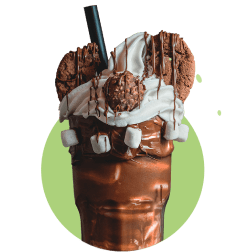
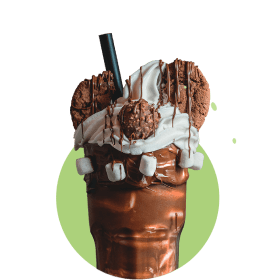
архитектор

diff --git a/src/sass/layout/_products.scss b/src/sass/layout/_products.scss
@@ -120,7 +120,6 @@
     content: url("/images/product-1m-249@1x.png");
     position: absolute;
     bottom: 100%;
-    left: 5%;
     transform: translateY(50%);
     @media (min-device-pixel-ratio: 2), (min-resolution: 192dpi), (min-resolution: 2dppx) {
         .ice-cream::before {
@@ -129,7 +128,6 @@
     }
     @media screen and (min-width: 768px) {
         content: url("/images/product-1t-220@1x.png");
-        left: 0;
         @media (min-device-pixel-ratio: 2), (min-resolution: 192dpi), (min-resolution: 2dppx) {
             .ice-cream::before {
                 content: url("/images/product-1t-440@2x.png");
@@ -149,7 +147,6 @@
     content: url("/images/product-2m-249@1x.png");
     position:absolute;
     bottom: 100%;
-    left: 5%;
     transform: translateY(50%);
     @media (min-device-pixel-ratio: 2), (min-resolution: 192dpi), (min-resolution: 2dppx) {
         .ice-coffee::before {
@@ -158,7 +155,6 @@
     }
     @media screen and (min-width: 768px) {
         content: url("/images/product-2t-220@1x.png");
-        left: 0;
         @media (min-device-pixel-ratio: 2), (min-resolution: 192dpi), (min-resolution: 2dppx) {
             .ice-coffee::before {
                 content: url("/images/product-2t-440@2x.png");
@@ -178,7 +174,6 @@
     content: url("/images/product-3m-249@1x.png");
     position: absolute;
     bottom: 100%;
-    left: 5%;
     transform: translateY(50%);
     @media (min-device-pixel-ratio: 2), (min-resolution: 192dpi), (min-resolution: 2dppx) {
         .milkshakes::before { 
@@ -187,7 +182,6 @@
     }
     @media screen and (min-width: 768px) {
         content: url("/images/product-3t-220@1x.png");
-        left: 0;
         @media (min-device-pixel-ratio: 2), (min-resolution: 192dpi), (min-resolution: 2dppx) {
             .milkshakes::before {
                 content: url("/images/product-3t-440@2x.png");
